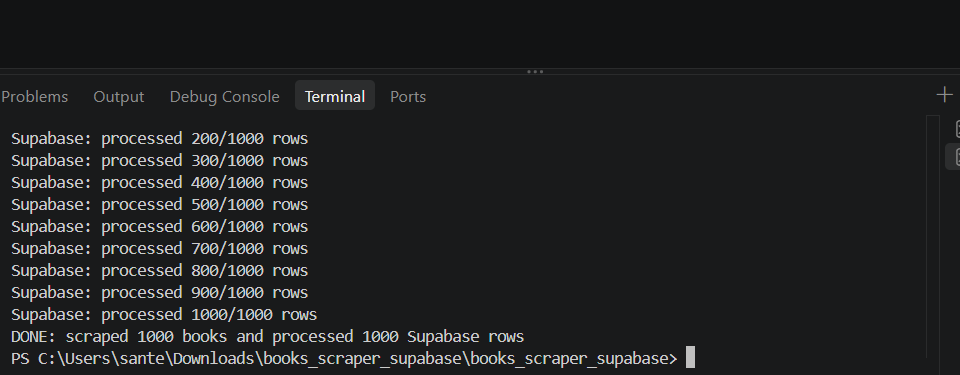
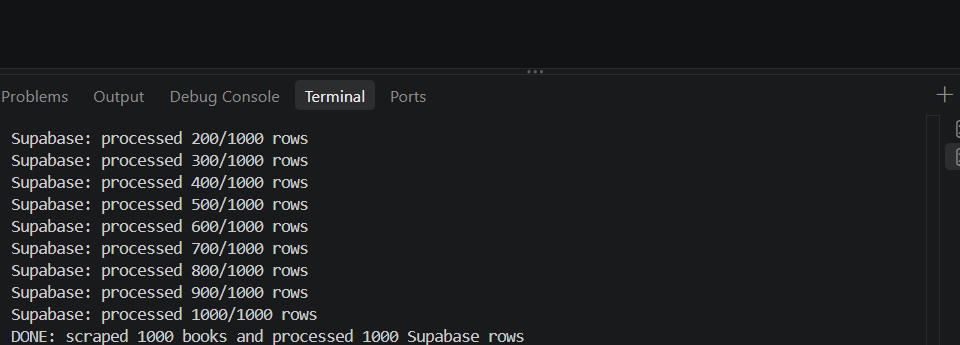
Books: add reproducible fallback export, crop screenshot, document challenge and follow-up audit
Claude-Session: https://claude.ai/code/session_012eHGgAHdpMYceG9qhTg1Vn

diff --git a/02-books-scraper-supabase/scraper.py b/02-books-scraper-supabase/scraper.py
@@ -2,6 +2,7 @@ from __future__ import annotations
 
 import argparse
 import csv
+import json
 import re
 import time
 from dataclasses import asdict, dataclass
@@ -246,12 +247,30 @@ def write_csv(rows: list[dict], path: str | Path) -> None:
     print(f"Saved {len(rows)} books to {destination.resolve()}")
 
 
+def write_json(rows: list[dict], path: str | Path) -> None:
+    """Write the browser fallback snapshot atomically, in the same compact format."""
+    if not rows:
+        raise ValueError("No books were scraped")
+    destination = Path(path)
+    destination.parent.mkdir(parents=True, exist_ok=True)
+    temporary = destination.with_suffix(f"{destination.suffix}.tmp")
+    with temporary.open("w", encoding="utf-8") as file:
+        json.dump(rows, file, ensure_ascii=False, separators=(",", ":"))
+    temporary.replace(destination)
+    print(f"Saved {len(rows)} books to {destination.resolve()}")
+
+
 def main() -> None:
     parser = argparse.ArgumentParser(
         description="Scrape books.toscrape.com to a normalized CSV"
     )
     parser.add_argument("--limit", type=int, default=None, help="Maximum books")
     parser.add_argument("--output", default="books.csv", help="Destination CSV")
+    parser.add_argument(
+        "--export-json",
+        default=None,
+        help="Also write the web fallback snapshot, e.g. web/data/books-fallback.json",
+    )
     parser.add_argument("--delay", type=float, default=0.15, help="Request delay")
     parser.add_argument("--timeout", type=float, default=20, help="HTTP timeout")
     parser.add_argument(
@@ -267,6 +286,8 @@ def main() -> None:
             continue_on_error=not args.strict,
         )
         write_csv(rows, args.output)
+        if args.export_json:
+            write_json(rows, args.export_json)
 
 
 if __name__ == "__main__":

diff --git a/02-books-scraper-supabase/pipeline.py b/02-books-scraper-supabase/pipeline.py
@@ -3,7 +3,7 @@ from __future__ import annotations
 import argparse
 import time
 
-from scraper import BookScraper, write_csv
+from scraper import BookScraper, write_csv, write_json
 from supabase_client import count_books, get_client, upsert_books
 
 
@@ -16,6 +16,11 @@ def main() -> None:
     parser.add_argument("--delay", type=float, default=0.15, help="Request delay")
     parser.add_argument("--timeout", type=float, default=20, help="HTTP timeout")
     parser.add_argument("--batch-size", type=int, default=100, help="Upsert batch")
+    parser.add_argument(
+        "--export-json",
+        default=None,
+        help="Also refresh the web fallback snapshot, e.g. web/data/books-fallback.json",
+    )
     parser.add_argument(
         "--skip-csv",
         action="store_true",
@@ -40,6 +45,8 @@ def main() -> None:
         raise RuntimeError("The scraper returned no books; nothing was synchronized")
     if not args.skip_csv:
         write_csv(books, args.csv)
+    if args.export_json:
+        write_json(books, args.export_json)
 
     client = get_client()
     written = upsert_books(client, books, batch_size=args.batch_size)

diff --git a/02-books-scraper-supabase/tests/test_scraper.py b/02-books-scraper-supabase/tests/test_scraper.py
@@ -1,10 +1,11 @@
+import json
 import tempfile
 import unittest
 from pathlib import Path
 
 from bs4 import BeautifulSoup
 
-from scraper import BookScraper, integer, money, write_csv
+from scraper import BookScraper, integer, money, write_csv, write_json
 
 
 DETAIL_HTML = """
@@ -81,7 +82,14 @@ class CsvTests(unittest.TestCase):
         self.assertIn("book_id,title", text)
         self.assertIn("abc123,Example Book", text)
 
+    def test_fallback_json_round_trips(self):
+        rows = [{"book_id": "abc123", "title": "Café Book", "price_gbp": 12.5}]
+        with tempfile.TemporaryDirectory() as directory:
+            destination = Path(directory) / "web" / "data" / "books-fallback.json"
+            write_json(rows, destination)
+            loaded = json.loads(destination.read_text(encoding="utf-8"))
+        self.assertEqual(loaded, rows)
+
 
 if __name__ == "__main__":
     unittest.main()
-

diff --git a/02-books-scraper-supabase/README.md b/02-books-scraper-supabase/README.md
@@ -69,6 +69,12 @@ Requirements: Python 3.10+, internet access for scraping, and a Supabase project
 
 ### 1. Create the Python environment
 
+Run every command in this guide from the project folder:
+
+```bash
+cd 02-books-scraper-supabase
+```
+
 Windows PowerShell:
 
 ```powershell
@@ -118,6 +124,14 @@ py pipeline.py
 
 `test_connection.py` creates, reads and deletes one temporary row. The final command processes all 1,000 books. A repeated run performs idempotent updates.
 
+To refresh the browser fallback snapshot from the same run, add `--export-json`:
+
+```powershell
+py pipeline.py --export-json web/data/books-fallback.json
+```
+
+`scraper.py --export-json web/data/books-fallback.json` does the same without Supabase.
+
 ### 5. Run the web app
 
 For an offline/fallback demonstration, simply serve `web`:
@@ -139,15 +153,20 @@ For live Supabase data, first run `web/frontend_access.sql`, then set the projec
 | `--timeout 30` | Set the HTTP timeout |
 | `--batch-size 50` | Set Supabase upsert batch size |
 | `--skip-csv` | Skip the local CSV backup |
+| `--export-json PATH` | Also write the web fallback snapshot |
 | `--strict` | Stop on the first failed product |
 
 ## Testing
 
-The offline unit tests cover price normalization, stock parsing, deterministic HTML parsing, invalid configuration and CSV output. `test_connection.py` is a separate cloud smoke test. During the final audit, the complete unit suite passed (5 tests, 0 failures), the live Supabase write/read/delete check passed, and a 10-book pipeline sample completed with 10 successful synchronizations and no failures.
+The offline unit tests cover price normalization, stock parsing, deterministic HTML parsing, invalid configuration, CSV output and the JSON fallback export. `test_connection.py` is a separate cloud smoke test. During the final audit, the complete unit suite passed (5 tests, 0 failures), the live Supabase write/read/delete check passed, and a 10-book pipeline sample completed with 10 successful synchronizations and no failures.
 
 ## Learning
 
 I learned that scraping is not only selecting HTML elements: a reliable pipeline needs retries, rate awareness, normalization, stable identifiers and explicit failure handling. I also learned why idempotent upserts matter, how database constraints complement Python validation, how RLS separates a browser-safe read path from a private write path, and why an independent local backup makes a cloud-dependent project more reproducible.
+
+### Challenge and how I approached it
+
+The main challenge was letting a public web page read the database without exposing a key that can change it. The Python pipeline needs to write, the browser only needs to read, and anything placed in `web/config.js` is visible to every visitor. I split the two paths: the server secret lives only in the ignored `.env` and is used by `pipeline.py`, while the browser uses Supabase's publishable key. On its own that key would not be safe, so I enabled Row Level Security and added `frontend_access.sql`, which grants anonymous users `SELECT` only. I verified the result by checking that the catalogue loads live data while write operations remain reserved to the server role.
 
 ## Limitations and assistance
 
@@ -155,10 +174,11 @@ Limitations:
 
 - the scraper depends on the source HTML structure and selectors may break if the site changes;
 - the source is a training catalogue and omits fields such as author and publication date;
+- the source itself files some books under the categories "Default" (152 books) and "Add a comment" (67 books); these are real source values, kept as collected rather than guessed;
 - a full scrape makes about 1,050 requests and therefore takes time;
 - Supabase free projects may pause after inactivity and must be resumed before a live demo;
 - live execution depends on network access and valid project credentials;
-- the fallback snapshot is static until the pipeline/export process is repeated;
+- the fallback snapshot is static until the pipeline is run again with `--export-json`;
 - there is no production scheduler, monitoring or incremental change detection.
 
 AI assistance (ChatGPT/Codex) was used to explain setup steps, review architecture, suggest defensive improvements and organize documentation. I executed the pipeline and database operations, inspected results, made the implementation decisions, and reviewed the final code. See [`AUDIT.md`](AUDIT.md) for the documented audit.

diff --git a/02-books-scraper-supabase/AUDIT.md b/02-books-scraper-supabase/AUDIT.md
@@ -1,7 +1,12 @@
 # Audit — Books Pipeline & Leaf & Letter
 
 Audit date: **19 November 2026**  
+Follow-up audit: **26 November 2026**  
 Scope: secrets, data files, dependencies, scraper/database/frontend documentation, tests and reproducibility.
+
+## How the audit was run
+
+The publication audit prompt from the course submission guidelines was run with a coding assistant from the root of this project folder (`02-books-scraper-supabase`). The assistant was asked not to print secret values, modify files, execute project code, commit or push. Its findings were reviewed one by one; the tables below record which ones required action and what was done. Finding no issues would not prove the project safe, so the checks were repeated after each round of fixes.
 
 ## 1. Baseline audit
 
@@ -53,3 +58,21 @@ The submission computer was configured with an isolated virtual environment and 
 ## 6. Remaining limitations
 
 HTML selectors may break if the source changes; Supabase can pause; the fallback becomes stale; and there is no scheduler, monitoring or incremental crawler. These are now disclosed in the README.
+
+## 7. Follow-up audit — 26 November 2026
+
+The audit prompt was run again on the final repository, after the last commits of 25 November.
+
+| Finding | Type | Action |
+|---|---|---|
+| `web/data/books-fallback.json` could not be regenerated by any script, although the README said it is refreshed by repeating the pipeline. | Confirmed | Added `--export-json PATH` to `pipeline.py` and `scraper.py` (atomic write, same format) plus a unit test. |
+| `docs/pipeline-complete.png` showed the local Windows user folder in the terminal prompt. | Confirmed | Cropped the screenshot. Older versions remain in Git history; it is a folder name, not a credential. |
+| The README Learning section did not describe a challenge and how it was approached. | Confirmed | Added a "Challenge and how I approached it" subsection. |
+| Setup commands did not say they must run from the project folder. | Confirmed | Added the `cd` step. |
+| Categories "Default" and "Add a comment" could look like a scraper bug. | Possible concern | Checked: they are real source categories. Disclosed in Limitations. |
+| `web/config.js` contains the real project URL and publishable key instead of placeholders. | Possible concern | Kept deliberately: the publishable key is designed for browsers and RLS limits it to `SELECT`. The server secret is only in the ignored `.env`. |
+| Server secret, `.env` or private keys in tracked files or Git history | None found | No action. |
+
+Re-check after fixes: `python -m py_compile` passes for all entry points; `python -m unittest discover -s tests` passes 6 tests, 0 failures.
+
+Could not verify in the follow-up environment: a live scrape and the Supabase connection (network access to the source and to Supabase was not available). These were verified on 19 November and should be repeated with `py pipeline.py --limit 10` before submission.
